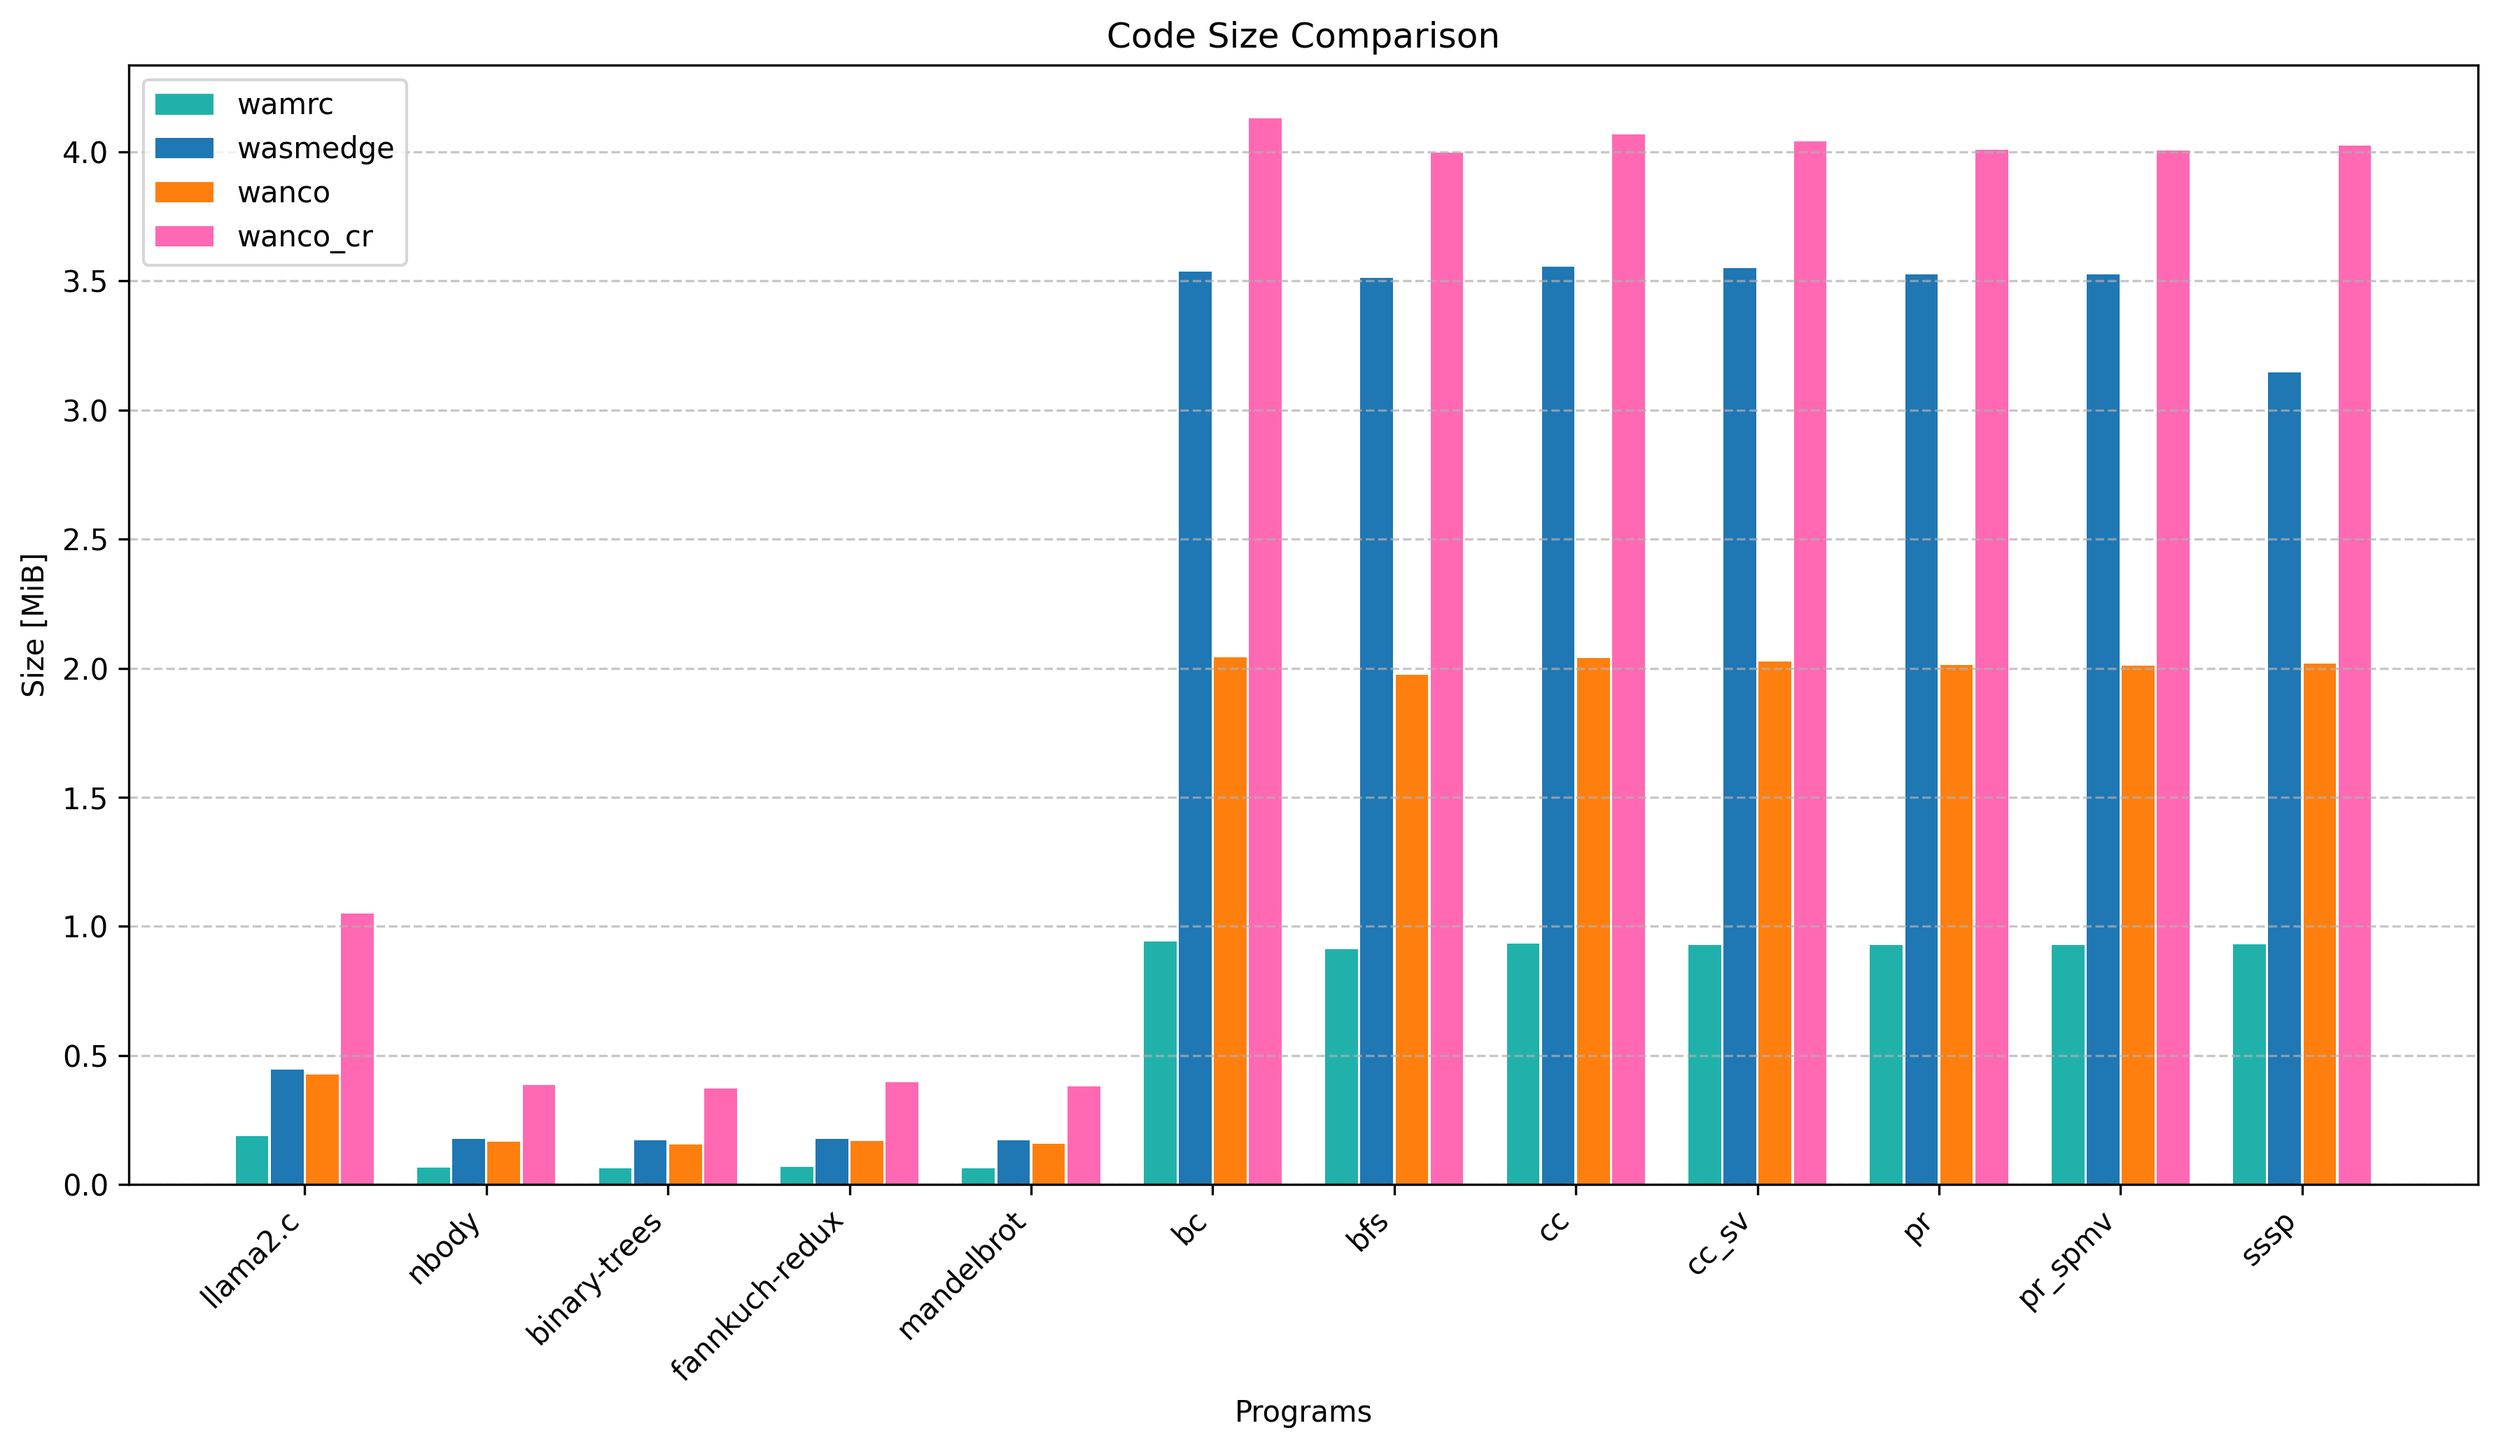
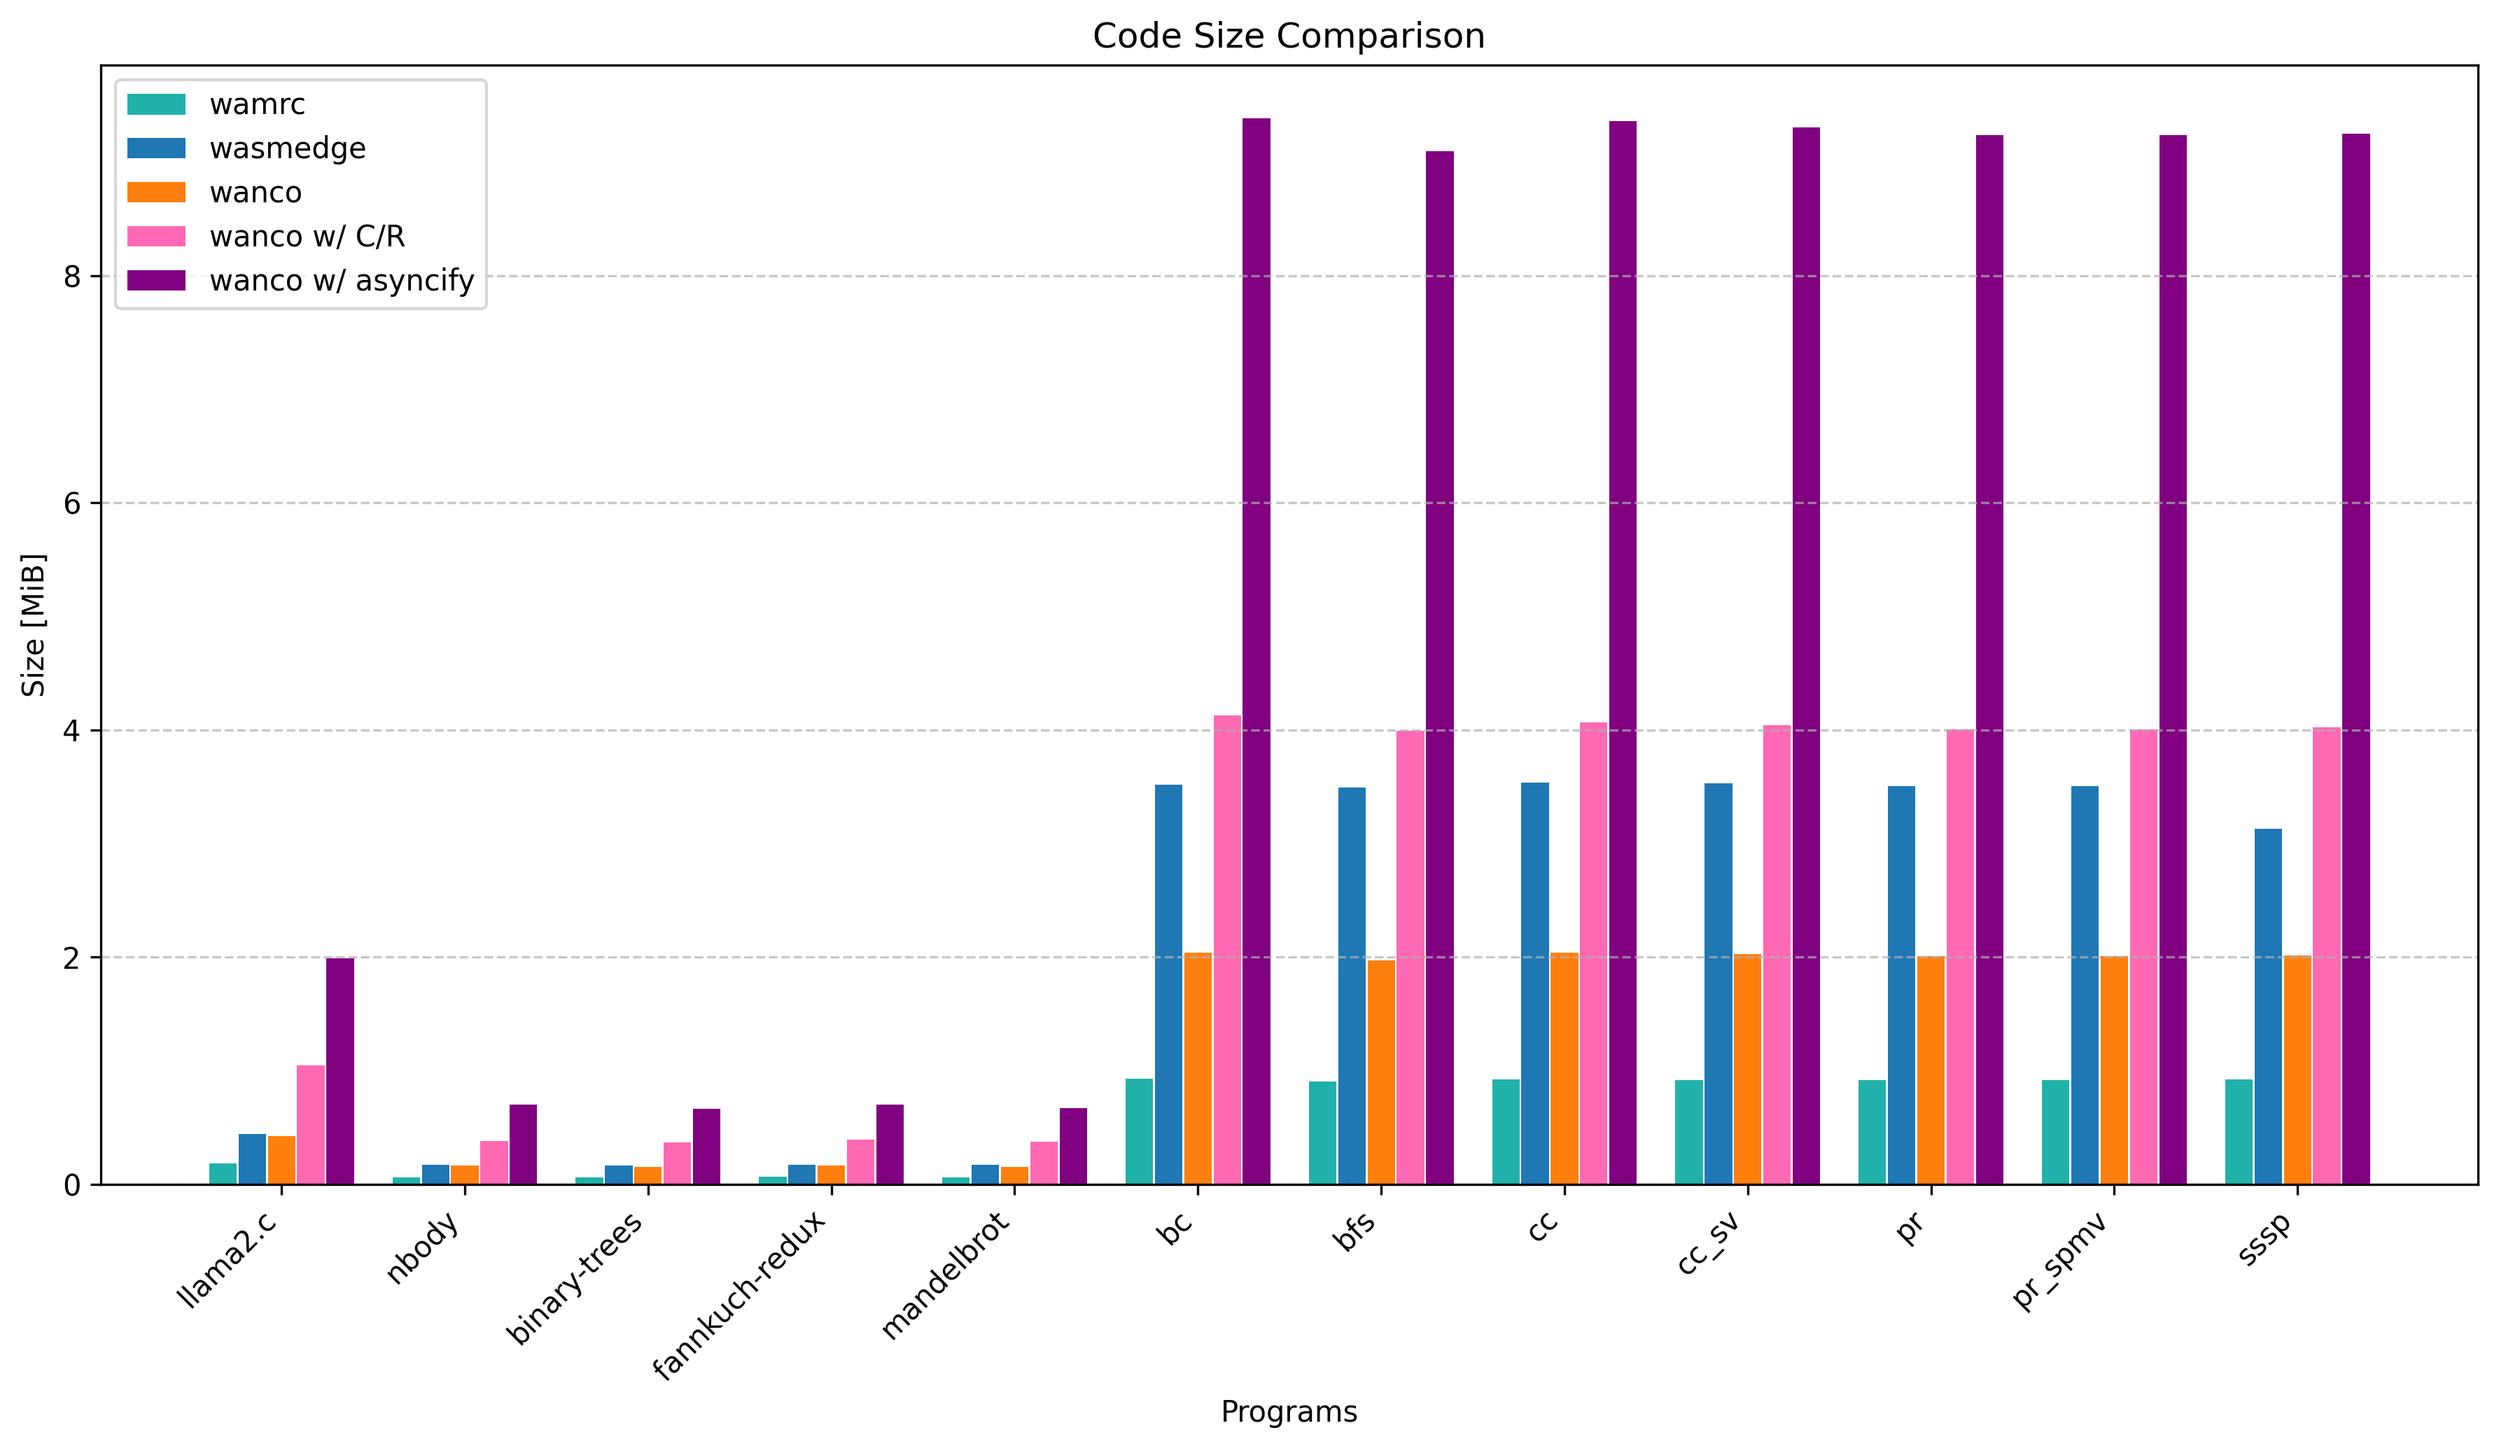
benchmark: add comparison of code size

diff --git a/benchmark/scripts/plot-code-size.py b/benchmark/scripts/plot-code-size.py
@@ -46,8 +46,9 @@ def print_ratio_analysis(
 
         average_ratio = sum(valid_ratios) / len(valid_ratios)
         print(f"Average ratio {a_name}/{b_name}: {round(average_ratio, 4)}")
-    
+
     print()
+
 
 def main():
     parser = argparse.ArgumentParser()
@@ -68,6 +69,9 @@ def main():
         wanco_cr_object = os.path.join(
             program.workdir, program.get_wanco_cr_cmd()[0].replace(".aot", ".o")
         )
+        wanco_asyncify_object = os.path.join(
+            program.workdir, program.get_wanco_cmd()[0].replace(".aot", ".asyncify.o")
+        )
         wamrc_object = wanco_object.replace(
             "wanco-artifacts", "wamrc-artifacts"
         ).replace(".o", ".aot")
@@ -79,6 +83,7 @@ def main():
                 "name": program.name,
                 "wanco": os.path.getsize(wanco_object),
                 "wanco_cr": os.path.getsize(wanco_cr_object),
+                "wanco_asyncify": os.path.getsize(wanco_asyncify_object),
                 "wamrc": os.path.getsize(wamrc_object),
                 "wasmedge": os.path.getsize(wasmedge_object),
             }
@@ -88,28 +93,31 @@ def main():
     plt.figure(figsize=(12, 7), dpi=300)
 
     # 設定
-    bar_width = 0.18  # 棒の幅を少し狭くする
-    group_gap = 0.02  # グループ内の棒の間隔
+    bar_width = 0.15  # 棒の幅をさらに狭くする（5つの棒を入れるため）
+    group_gap = 0.01  # グループ内の棒の間隔
     index = np.arange(len(sizes))
     programs_names = [program["name"] for program in sizes]
 
     # データ準備
     wanco_bars = [program["wanco"] for program in sizes]
     wanco_cr_bars = [program["wanco_cr"] for program in sizes]
+    wanco_asyncify_bars = [program["wanco_asyncify"] for program in sizes]
     wamrc_bars = [program["wamrc"] for program in sizes]
     wasmedge_bars = [program["wasmedge"] for program in sizes]
 
     # バイト数をMiBに変換（より読みやすくするため）
     wanco_bars_mib = [size / (1024 * 1024) for size in wanco_bars]
     wanco_cr_bars_mib = [size / (1024 * 1024) for size in wanco_cr_bars]
+    wanco_asyncify_bars_mib = [size / (1024 * 1024) for size in wanco_asyncify_bars]
     wamrc_bars_mib = [size / (1024 * 1024) for size in wamrc_bars]
     wasmedge_bars_mib = [size / (1024 * 1024) for size in wasmedge_bars]
 
     # 各棒の位置を計算（間隔を追加）
-    pos_wamrc = index - (bar_width * 1.5 + group_gap)
-    pos_wasmedge = index - (bar_width * 0.5 + group_gap / 3)
-    pos_wanco = index + (bar_width * 0.5 + group_gap / 3)
-    pos_wanco_cr = index + (bar_width * 1.5 + group_gap)
+    pos_wamrc = index - (bar_width * 2 + group_gap * 2)
+    pos_wasmedge = index - (bar_width + group_gap)
+    pos_wanco = index
+    pos_wanco_cr = index + (bar_width + group_gap)
+    pos_wanco_asyncify = index + (bar_width * 2 + group_gap * 2)
 
     # プログラムごとに、wamrc, wasmedge, wanco, wanco_crの順に棒を並べる
     bars_wamrc = plt.bar(
@@ -133,7 +141,19 @@ def main():
     )
 
     bars_wanco_cr = plt.bar(
-        pos_wanco_cr, wanco_cr_bars_mib, bar_width, label="wanco_cr", color="hotpink"
+        pos_wanco_cr,
+        wanco_cr_bars_mib,
+        bar_width,
+        label="wanco w/ C/R",
+        color="hotpink",
+    )
+
+    bars_wanco_asyncify = plt.bar(
+        pos_wanco_asyncify,
+        wanco_asyncify_bars_mib,
+        bar_width,
+        label="wanco w/ asyncify",
+        color="purple",
     )
 
     # 比率分析（提供されたコード例に類似した分析）
@@ -160,6 +180,14 @@ def main():
         programs_names,
         "wanco_cr",
         wanco_cr_bars,
+        "wanco",
+        wanco_bars,
+    )
+    # wanco_asyncify/wancoの比較
+    print_ratio_analysis(
+        programs_names,
+        "wanco_asyncify",
+        wanco_asyncify_bars,
         "wanco",
         wanco_bars,
     )

diff --git a/benchmark/README.md b/benchmark/README.md
@@ -5,6 +5,8 @@
 - [uv](https://github.com/astral-sh/uv): Python package and version manager
 - CRIU
 - Linux on x86-64
+- My custom Binaryen
+
 
 ```bash
 # Install CRIU
@@ -16,6 +18,24 @@ cd benchmark
 make all
 # Run as root because CRIU requires root privileges
 sudo env "PATH=$PATH" ./scripts/run-all-bench.sh
+```
+
+
+## Build customized Binaryen
+
+```
+git@github.com:tamaroning/binaryen.git
+cd binaryen
+git checkout checkpoint-restore
+mkdir build
+cd build
+```
+
+
+Create a symlink to the binary on the `benchmark` (this) directory.
+
+```sh
+ln -s ../../binaryen/build/bin/wasm-opt .
 ```
 
 
@@ -39,7 +59,3 @@ sudo uv run scripts/chkpt-restore-criu.py ./results/overhead.json -o ./results/c
 # Plot comparison of CRIU and WASM (checkpoting and restoring time, snapshot size)
 uv run scripts/plot-wasm-vs-criu.py results/chkpt-restore-wasm.csv results/chkpt-restore-criu.csv
 ```
-
-TODO: measure checkpoint and restore time
-
-TODO: measure snapshot size
